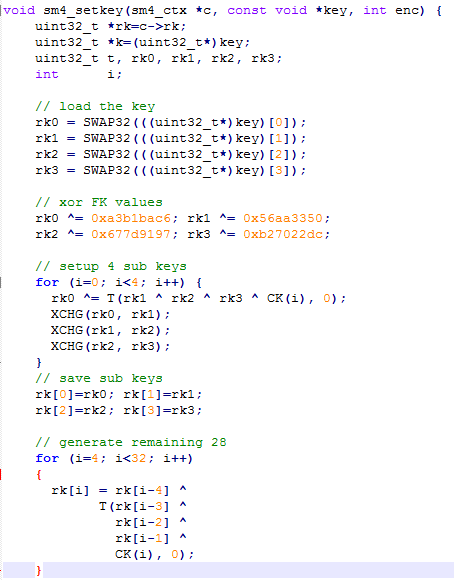
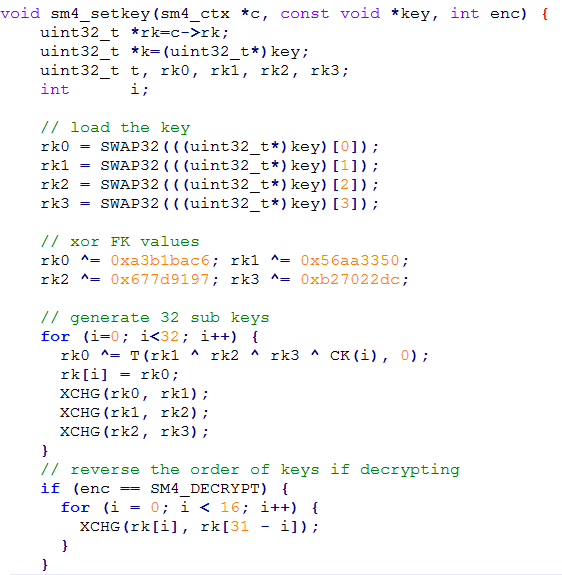
upd

diff --git a/sm4.c b/sm4.c
@@ -137,26 +137,14 @@ void sm4_setkey(sm4_ctx *c, const void *key, int enc) {
     // xor FK values
     rk0 ^= 0xa3b1bac6; rk1 ^= 0x56aa3350;
     rk2 ^= 0x677d9197; rk3 ^= 0xb27022dc;
-
-    // setup 4 sub keys
-    for (i=0; i<4; i++) {
+    
+    // generate 32 sub keys
+    for (i=0; i<32; i++) {
       rk0 ^= T(rk1 ^ rk2 ^ rk3 ^ CK(i), 0);
+      rk[i] = rk0;
       XCHG(rk0, rk1);
       XCHG(rk1, rk2);
       XCHG(rk2, rk3);
-    }
-    // save sub keys
-    rk[0]=rk0; rk[1]=rk1;
-    rk[2]=rk2; rk[3]=rk3;
-    
-    // generate remaining 28
-    for (i=4; i<32; i++) 
-    {
-      rk[i] = rk[i-4] ^ 
-            T(rk[i-3] ^ 
-              rk[i-2] ^ 
-              rk[i-1] ^ 
-              CK(i), 0);
     }
     // reverse the order of keys if decrypting
     if (enc == SM4_DECRYPT) {

diff --git a/test.c b/test.c
@@ -32,7 +32,7 @@ int main(void)
   sm4_setkeyx(&c, tv_key, SM4_ENCRYPT);
   
   //for (i=0; i<1000000; i++) {
-    sm4_encrypt(&c, tv_plain);
+    sm4_encryptx(&c, tv_plain);
   //}
   
   equ = memcmp(tv_cipher, tv_plain, 16)==0;
